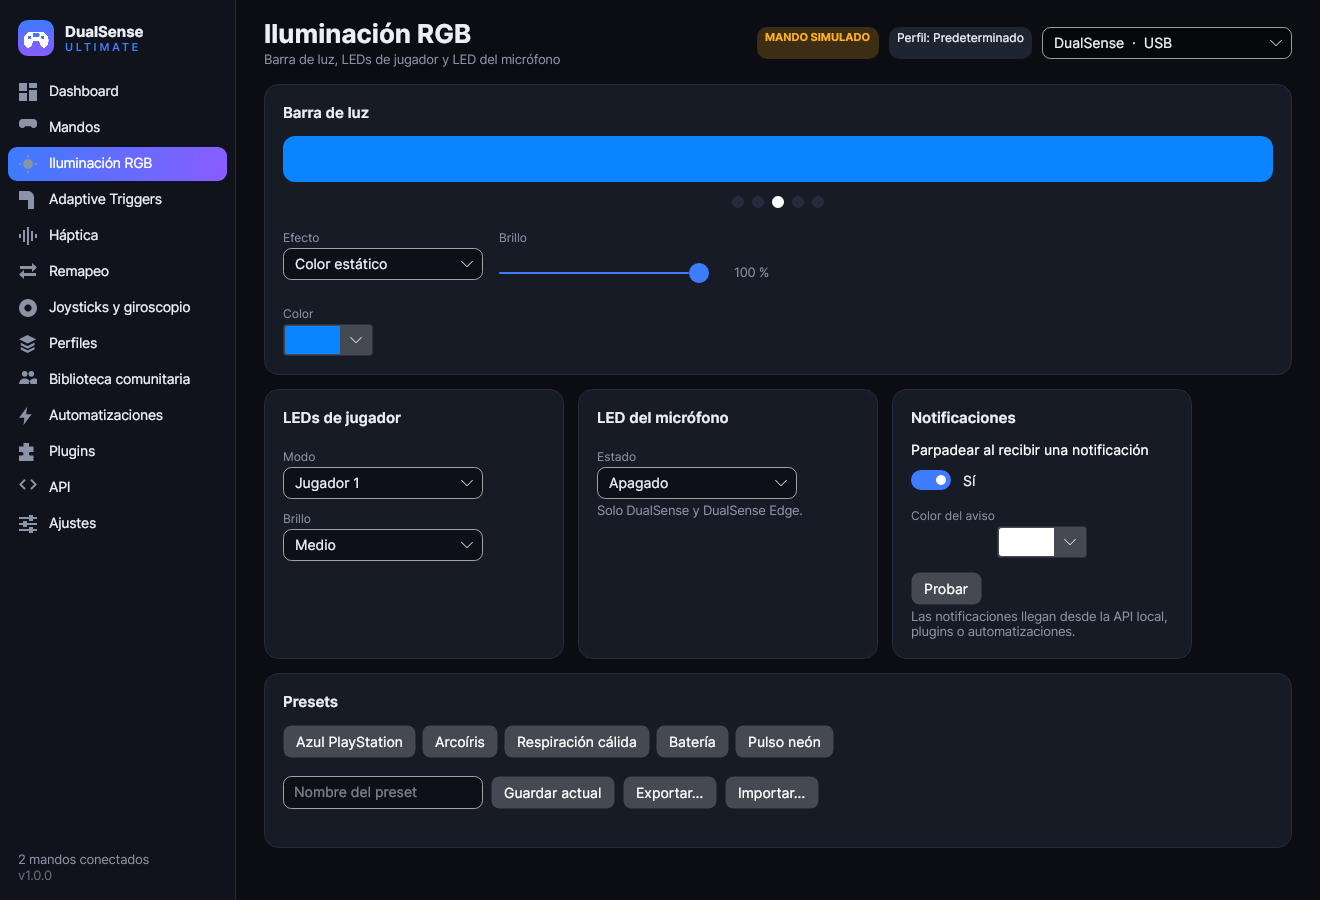
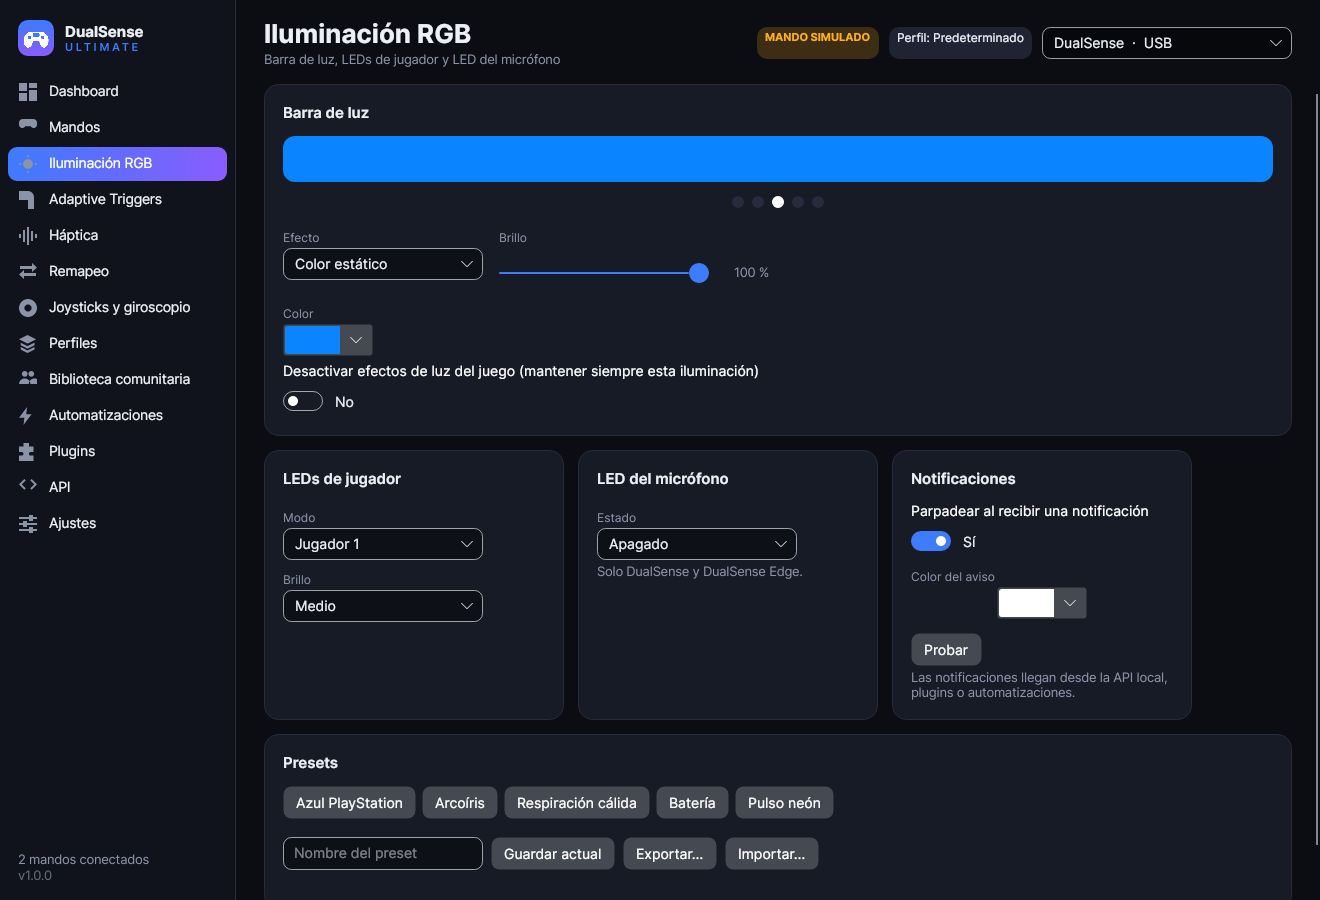
Add 'disable game light effects': continuous light-only re-assert; keep-alive no longer rewrites lights
Claude-Session: https://claude.ai/code/session_01LcuoRc1CowDUV77yjYChD7

diff --git a/src/DualSenseUltimate.Core/Devices/ControllerDevice.cs b/src/DualSenseUltimate.Core/Devices/ControllerDevice.cs
@@ -160,25 +160,38 @@ public sealed class ControllerDevice : IDisposable
         _outputSignal.Set();
     }
 
+    /// <summary>When true the lights are re-sent continuously (every few milliseconds) so light effects
+    /// written by a game are overridden before they become visible. When false, an unchanged state is
+    /// refreshed only occasionally and that refresh leaves the lights alone, so this app never fights
+    /// a game over them.</summary>
+    public bool EnforceLights { get; set; }
+
+    private const OutputOwnership LightFields = OutputOwnership.Lightbar | OutputOwnership.PlayerLeds | OutputOwnership.MicLed;
+
     private void WriteLoop()
     {
         var keepAlive = Stopwatch.StartNew();
         while (!_disposed)
         {
-            _outputSignal.WaitOne(Math.Clamp(KeepAliveMs, 20, 1000));
+            int minGap = Connection == ConnectionType.Bluetooth ? 12 : 5; // write rate cap (BT bandwidth is limited)
+            int interval = EnforceLights ? minGap : KeepAliveMs;
+            _outputSignal.WaitOne(Math.Clamp(interval, 5, 1000));
             if (_disposed) break;
             OutputState s;
-            lock (_outputLock)
-            {
-                // Rewrite every 2 s even if unchanged so the state survives controller sleep/wake and BT glitches.
-                if (!_outputDirty && keepAlive.ElapsedMilliseconds < KeepAliveMs) continue;
-                s = _pending; _outputDirty = false;
-            }
-            if (_lastSent != null && _lastSent.ContentEquals(s) && keepAlive.ElapsedMilliseconds < KeepAliveMs) continue;
+            lock (_outputLock) { s = _pending; _outputDirty = false; }
+            bool changed = _lastSent == null || !_lastSent.ContentEquals(s);
+            if (!changed && keepAlive.ElapsedMilliseconds < interval) continue;
             if (s.Ownership == OutputOwnership.None) { _lastSent = s; continue; }
+            var toSend = s;
+            if (!changed && !EnforceLights && KeepAliveMs >= 1000)
+            {
+                // Routine refresh of an unchanged state: do not touch the lights.
+                toSend = s.Clone(); toSend.Ownership &= ~LightFields;
+                if (toSend.Ownership == OutputOwnership.None) { keepAlive.Restart(); continue; }
+            }
             try
             {
-                byte[] report = IsDualSense ? DualSenseProtocol.BuildOutput(s, Connection, _sequence++, lightbarSetup: !_setupSent) : DualShock4Protocol.BuildOutput(s, Connection);
+                byte[] report = IsDualSense ? DualSenseProtocol.BuildOutput(toSend, Connection, _sequence++, lightbarSetup: !_setupSent) : DualShock4Protocol.BuildOutput(toSend, Connection);
                 _transport.Write(report);
                 _setupSent = true; Interlocked.Increment(ref _writeCount);
                 _lastSent = s; keepAlive.Restart();
@@ -189,10 +202,10 @@ public sealed class ControllerDevice : IDisposable
                 Log.Warn($"[{Id}] output write failed: {ex.Message}");
                 SetHealth(DeviceHealth.Degraded);
                 Thread.Sleep(50);
-                lock (_outputLock) _outputDirty = true;
+                _lastSent = null;
             }
             catch { break; }
-            Thread.Sleep(Connection == ConnectionType.Bluetooth ? 8 : 4); // cap write rate (BT bandwidth is limited)
+            Thread.Sleep(minGap - 1);
         }
     }
 

diff --git a/tests/DualSenseUltimate.Tests/IntegrationTests.cs b/tests/DualSenseUltimate.Tests/IntegrationTests.cs
@@ -181,6 +181,45 @@ public class IntegrationTests
     }
 
     [Fact]
+    public void Blocking_game_lighting_restores_the_profile_lights_within_milliseconds_without_touching_triggers()
+    {
+        using var h = new Harness();
+        var p = h.Runtime.Profiles.Profiles[0];
+        p.Lighting.Color = "#00FF00"; p.Emulation.BlockGameLighting = true; p.Emulation.NativeTriggers = true; p.Emulation.NativeRumble = true;
+        h.Runtime.Profiles.Save(p);
+        var sim = h.Plug("a", ConnectionType.Usb, "AA:00:00:00:00:0C");
+        WaitFor(() => sim.LastOutput is { Green: 255, Red: 0 }, "profile lights");
+        var game = new OutputState { Red = 255, Blue = 255, Ownership = OutputOwnership.Lightbar | OutputOwnership.RightTrigger,
+            RightTrigger = TriggerEffectEncoder.Encode(new TriggerEffect { Type = TriggerEffectType.Weapon, Start = 2, End = 5, Strength = 8 }) };
+        for (int i = 0; i < 20; i++)
+        {
+            sim.Write(DualSenseProtocol.BuildOutput(game, ConnectionType.Usb));   // the "game" sets police lights + a trigger effect
+            WaitFor(() => sim.LastOutput is { Green: 255, Red: 0, Blue: 0 }, "lights restored", 100);
+        }
+        Assert.Equal(0x25, sim.LastOutput!.RightTrigger[0]);                      // the game's trigger effect is untouched
+        byte[] last; lock (sim.RawWrites) last = sim.RawWrites[^1];
+        Assert.Equal(0, last[1] & 0x0F);                                          // our reports carry lights only
+    }
+
+    [Fact]
+    public void Without_blocking_a_static_profile_does_not_fight_the_game_over_the_lights()
+    {
+        using var h = new Harness();
+        var p = h.Runtime.Profiles.Profiles[0];
+        p.Lighting.Color = "#00FF00"; p.R2 = new TriggerEffect { Type = TriggerEffectType.Feedback, Strength = 4 };
+        h.Runtime.Profiles.Save(p);
+        var sim = h.Plug("a", ConnectionType.Usb, "AA:00:00:00:00:0D");
+        WaitFor(() => sim.LastOutput is { Green: 255 }, "profile lights");
+        sim.Write(DualSenseProtocol.BuildOutput(new OutputState { Red = 255, Ownership = OutputOwnership.Lightbar }, ConnectionType.Usb));
+        int before; lock (sim.RawWrites) before = sim.RawWrites.Count;
+        WaitFor(() => { lock (sim.RawWrites) return sim.RawWrites.Count > before; }, "keep-alive refresh", 4000);
+        Assert.True(sim.LastOutput is { Red: 255, Green: 0 }, "the game's colour stays: the refresh did not rewrite the lights");
+        byte[] refresh; lock (sim.RawWrites) refresh = sim.RawWrites[^1];
+        Assert.Equal(0, refresh[2] & 0x14);                                       // no lightbar / player LED flags
+        Assert.NotEqual(0, refresh[1] & 0x04);                                    // triggers are still refreshed
+    }
+
+    [Fact]
     public void Hybrid_mode_leaves_triggers_and_rumble_to_the_game()
     {
         using var h = new Harness();

diff --git a/src/DualSenseUltimate.App/Pages/RemapPage.cs b/src/DualSenseUltimate.App/Pages/RemapPage.cs
@@ -117,9 +117,15 @@ public sealed class RemapPage : PageBase
             e.Mode == EmulationMode.None
                 ? Wrap(Toggle("Dejar gatillos al juego", e.NativeTriggers, v => e.NativeTriggers = v), new Border { Width = 18 },
                     Toggle("Dejar vibración al juego", e.NativeRumble, v => e.NativeRumble = v), new Border { Width = 18 },
-                    Toggle("Dejar luces al juego", e.NativeLighting, v => e.NativeLighting = v))
+                    Toggle("Desactivar efectos de luz del juego", e.BlockGameLighting, v => { e.BlockGameLighting = v; if (v) e.NativeLighting = false; }))
                 : Wrap(Toggle("Ocultar el mando físico (HidHide)", e.HideOriginal, v => e.HideOriginal = v), new Border { Width = 18 },
                     Toggle("Reenviar vibración del juego", e.ForwardRumble, v => e.ForwardRumble = v)),
+            e.Mode == EmulationMode.None
+                ? Ui.Text("«Desactivar efectos de luz del juego»: algunos juegos (por ejemplo GTA V con las luces de policía) cambian la barra de luz por su cuenta. " +
+                          "Con esta opción la app reenvía la iluminación de este perfil cada pocos milisegundos, de modo que la del juego queda tapada, sin tocar sus gatillos ni su vibración. " +
+                          "Windows no permite bloquear solo las luces de otro programa, así que con efectos muy rápidos podría apreciarse un destello tenue. " +
+                          "Desactivada, el juego puede imponer sus luces cuando quiera.", "muted")
+                : new Border(),
             emuStatus,
             Ui.Text("Steam: para evitar entradas duplicadas, desactiva Steam Input para este juego si usas emulación, o deja que Steam gestione el mando y usa el modo híbrido sin asignaciones de botón.", "muted")));
 

diff --git a/src/DualSenseUltimate.Core/Runtime/ControllerSession.cs b/src/DualSenseUltimate.Core/Runtime/ControllerSession.cs
@@ -226,7 +226,9 @@ public sealed class ControllerSession : IDisposable
         var e = p.Emulation;
         if (e.NativeTriggers && _overrideL2 == null && _overrideR2 == null) own &= ~(OutputOwnership.LeftTrigger | OutputOwnership.RightTrigger);
         if (e.NativeRumble) own &= ~OutputOwnership.Rumble;
-        if (e.NativeLighting && _overrideColor == null) own &= ~(OutputOwnership.Lightbar | OutputOwnership.PlayerLeds | OutputOwnership.MicLed);
+        bool gameLights = e.NativeLighting && !e.BlockGameLighting;
+        Device.EnforceLights = e.BlockGameLighting;
+        if (gameLights && _overrideColor == null) own &= ~(OutputOwnership.Lightbar | OutputOwnership.PlayerLeds | OutputOwnership.MicLed);
         if (!Device.IsDualSense) own &= OutputOwnership.Rumble | OutputOwnership.Lightbar;
         o.Ownership = own;
 

diff --git a/src/DualSenseUltimate.App/Pages/LightingPage.cs b/src/DualSenseUltimate.App/Pages/LightingPage.cs
@@ -92,6 +92,8 @@ public sealed class LightingPage : PageBase
         if (l.Mode == LightingMode.Battery)
             bar.Children.Add(Ui.Text("Verde con batería alta, amarillo a media carga y rojo parpadeante por debajo del 15 %. Late suavemente mientras carga.", "muted"));
 
+        bar.Children.Add(new Border { Height = 6 });
+        bar.Children.Add(Toggle("Desactivar efectos de luz del juego (mantener siempre esta iluminación)", p.Emulation.BlockGameLighting, v => { p.Emulation.BlockGameLighting = v; if (v) p.Emulation.NativeLighting = false; }));
         root.Children.Add(Card("Barra de luz", preview, leds, new Border { Height = 6 }, bar));
 
         // ---- player LEDs, mic LED, notifications

diff --git a/src/DualSenseUltimate.Core/Virtual/Virtual.cs b/src/DualSenseUltimate.Core/Virtual/Virtual.cs
@@ -26,6 +26,9 @@ public sealed class EmulationConfig
     public bool NativeRumble { get; set; }
     /// <summary>Hybrid: leave the light bar and player LEDs to the game.</summary>
     public bool NativeLighting { get; set; }
+    /// <summary>Hybrid: suppress light effects written by the game (e.g. police lights) by re-sending this
+    /// profile's lighting continuously. The game keeps its adaptive triggers and haptics.</summary>
+    public bool BlockGameLighting { get; set; }
     public EmulationConfig Clone() => (EmulationConfig)MemberwiseClone();
 }
 

diff --git a/README.md b/README.md
@@ -9,7 +9,7 @@ Bluetooth, con varios mandos a la vez.
 ![Dashboard](docs/screenshots/01-dashboard.png)
 
 > **Estado de validación (léelo antes de usarla).** El proyecto se ha desarrollado sin acceso a un
-> mando físico ni a un escritorio Windows interactivo. Toda la lógica está cubierta por 135 pruebas
+> mando físico ni a un escritorio Windows interactivo. Toda la lógica está cubierta por 137 pruebas
 > automatizadas que se ejecutan en Windows y Linux contra mandos simulados que hablan el protocolo
 > real, y un usuario ha confirmado en un DualSense real que iluminación, LED de micrófono y gatillos adaptativos funcionan. El resto de funciones (emulación, audio háptico, aislamiento, instalación de actualizaciones…) sigue sin validar en hardware. `FEATURES.md` indica el
 > estado exacto de cada función y `docs/HARDWARE_TEST_PLAN.md` cómo validarla en tu equipo.

diff --git a/TESTING.md b/TESTING.md
@@ -4,8 +4,8 @@
 
 | Tipo | Dónde | Resultado |
 |---|---|---|
-| Pruebas automatizadas (135) | `dotnet test`, Linux local | 135 superadas, 0 fallidas |
-| Pruebas automatizadas (135) | GitHub Actions `windows-latest` y `ubuntu-latest` | Superadas (ejecuciones 1 a 4 del flujo `build`) |
+| Pruebas automatizadas (137) | `dotnet test`, Linux local | 137 superadas, 0 fallidas |
+| Pruebas automatizadas (137) | GitHub Actions `windows-latest` y `ubuntu-latest` | Superadas (ejecuciones 1 a 4 del flujo `build`) |
 | Render de la interfaz (13 páginas) | `tools/Screenshots`, Linux local y CI Windows/Linux | Sin errores |
 | Publicación autocontenida `win-x64` | Linux local (compilación cruzada) | Genera `DualSenseUltimate.exe` (PE32+ GUI) |
 | Compilación del instalador (Inno Setup) | CI Windows | Correcta (ejecuciones 3 y 4 del flujo `build`); el instalador **no se ha ejecutado** |

diff --git a/KNOWN_ISSUES.md b/KNOWN_ISSUES.md
@@ -23,6 +23,12 @@
 
 ## Funciones deliberadamente acotadas
 
+- **Desactivar efectos de luz del juego**: no es un bloqueo real (Windows no permite filtrar solo las
+  luces que escribe otro proceso), sino un reenvío de la iluminación del perfil cada ~5 ms por USB
+  y ~12 ms por Bluetooth. Con efectos del juego muy rápidos puede quedar un destello tenue. El
+  bloqueo total solo es posible con emulación (el juego no ve un DualSense), a costa de sus
+  gatillos y háptica nativos.
+
 - **Aislamiento**: Windows no permite restringir qué procesos escriben en un dispositivo HID; solo
   es posible con el controlador HidHide. Sin HidHide la única mitigación es «Prioridad de salida».
   HidHide impide *abrir* el mando: un programa que ya lo tenía abierto lo conserva hasta reiniciarse

diff --git a/CHANGELOG.md b/CHANGELOG.md
@@ -4,6 +4,15 @@
 
 Primera versión.
 
+Luces del juego:
+
+- Nuevo: **Desactivar efectos de luz del juego** (Iluminación y Remapeo → modo híbrido). Sustituye a
+  «Dejar luces al juego». Reenvía la iluminación del perfil cada pocos milisegundos para tapar las
+  luces que impone el juego (p. ej. policía en GTA V) sin tocar sus gatillos ni su vibración.
+- Sin esa opción, el refresco periódico ya no reescribe las luces, de modo que la app no provoca
+  parpadeos al competir con el juego.
+- La prueba guiada de hardware se incluye en la app instalada (Ajustes → Diagnóstico).
+
 Batería y actualizaciones:
 
 - **Batería calibrada**: el mando solo informa en pasos del 10 % y el valor bruto oscila. Ahora se

diff --git a/docs/USER_MANUAL.md b/docs/USER_MANUAL.md
@@ -30,6 +30,8 @@ Datos de identificación (MAC, firmware), nombre personalizado, perfil asignado 
   nivel de batería o personalizado (editor de colores clave).
 - **LEDs de jugador**: jugador 1-4, todos, nivel de batería o máscara personalizada.
 - **LED del micrófono**: apagado, encendido o parpadeo.
+- **Desactivar efectos de luz del juego**: mantiene siempre la iluminación del perfil aunque el
+  juego intente cambiarla (luces de policía, salud…). No afecta a los gatillos ni a la vibración del juego.
 - **Presets**: guarda el ajuste actual, expórtalo a un archivo o importa uno.
 
 ## 5. Adaptive Triggers

diff --git a/FEATURES.md b/FEATURES.md
@@ -89,6 +89,7 @@ Leyenda:
 | HidHide: ocultar, mostrar, recuperación tras cierre brusco | SIM (conversión de rutas) / PEND (driver) |
 | Reenvío de vibración del mando virtual | PEND |
 | Modo híbrido (propiedad parcial del informe de salida) | SIM |
+| Desactivar efectos de luz del juego (reenvío continuo solo de luces) | SIM / PEND (resultado visual en juegos reales) |
 | Detección de programas en conflicto | SIM (por nombre de proceso) |
 | Aislamiento del mando (solo la app y programas permitidos) | SIM (lógica) / PEND (HidHide real) |
 | Prioridad de salida (reenvío continuo) | SIM |
